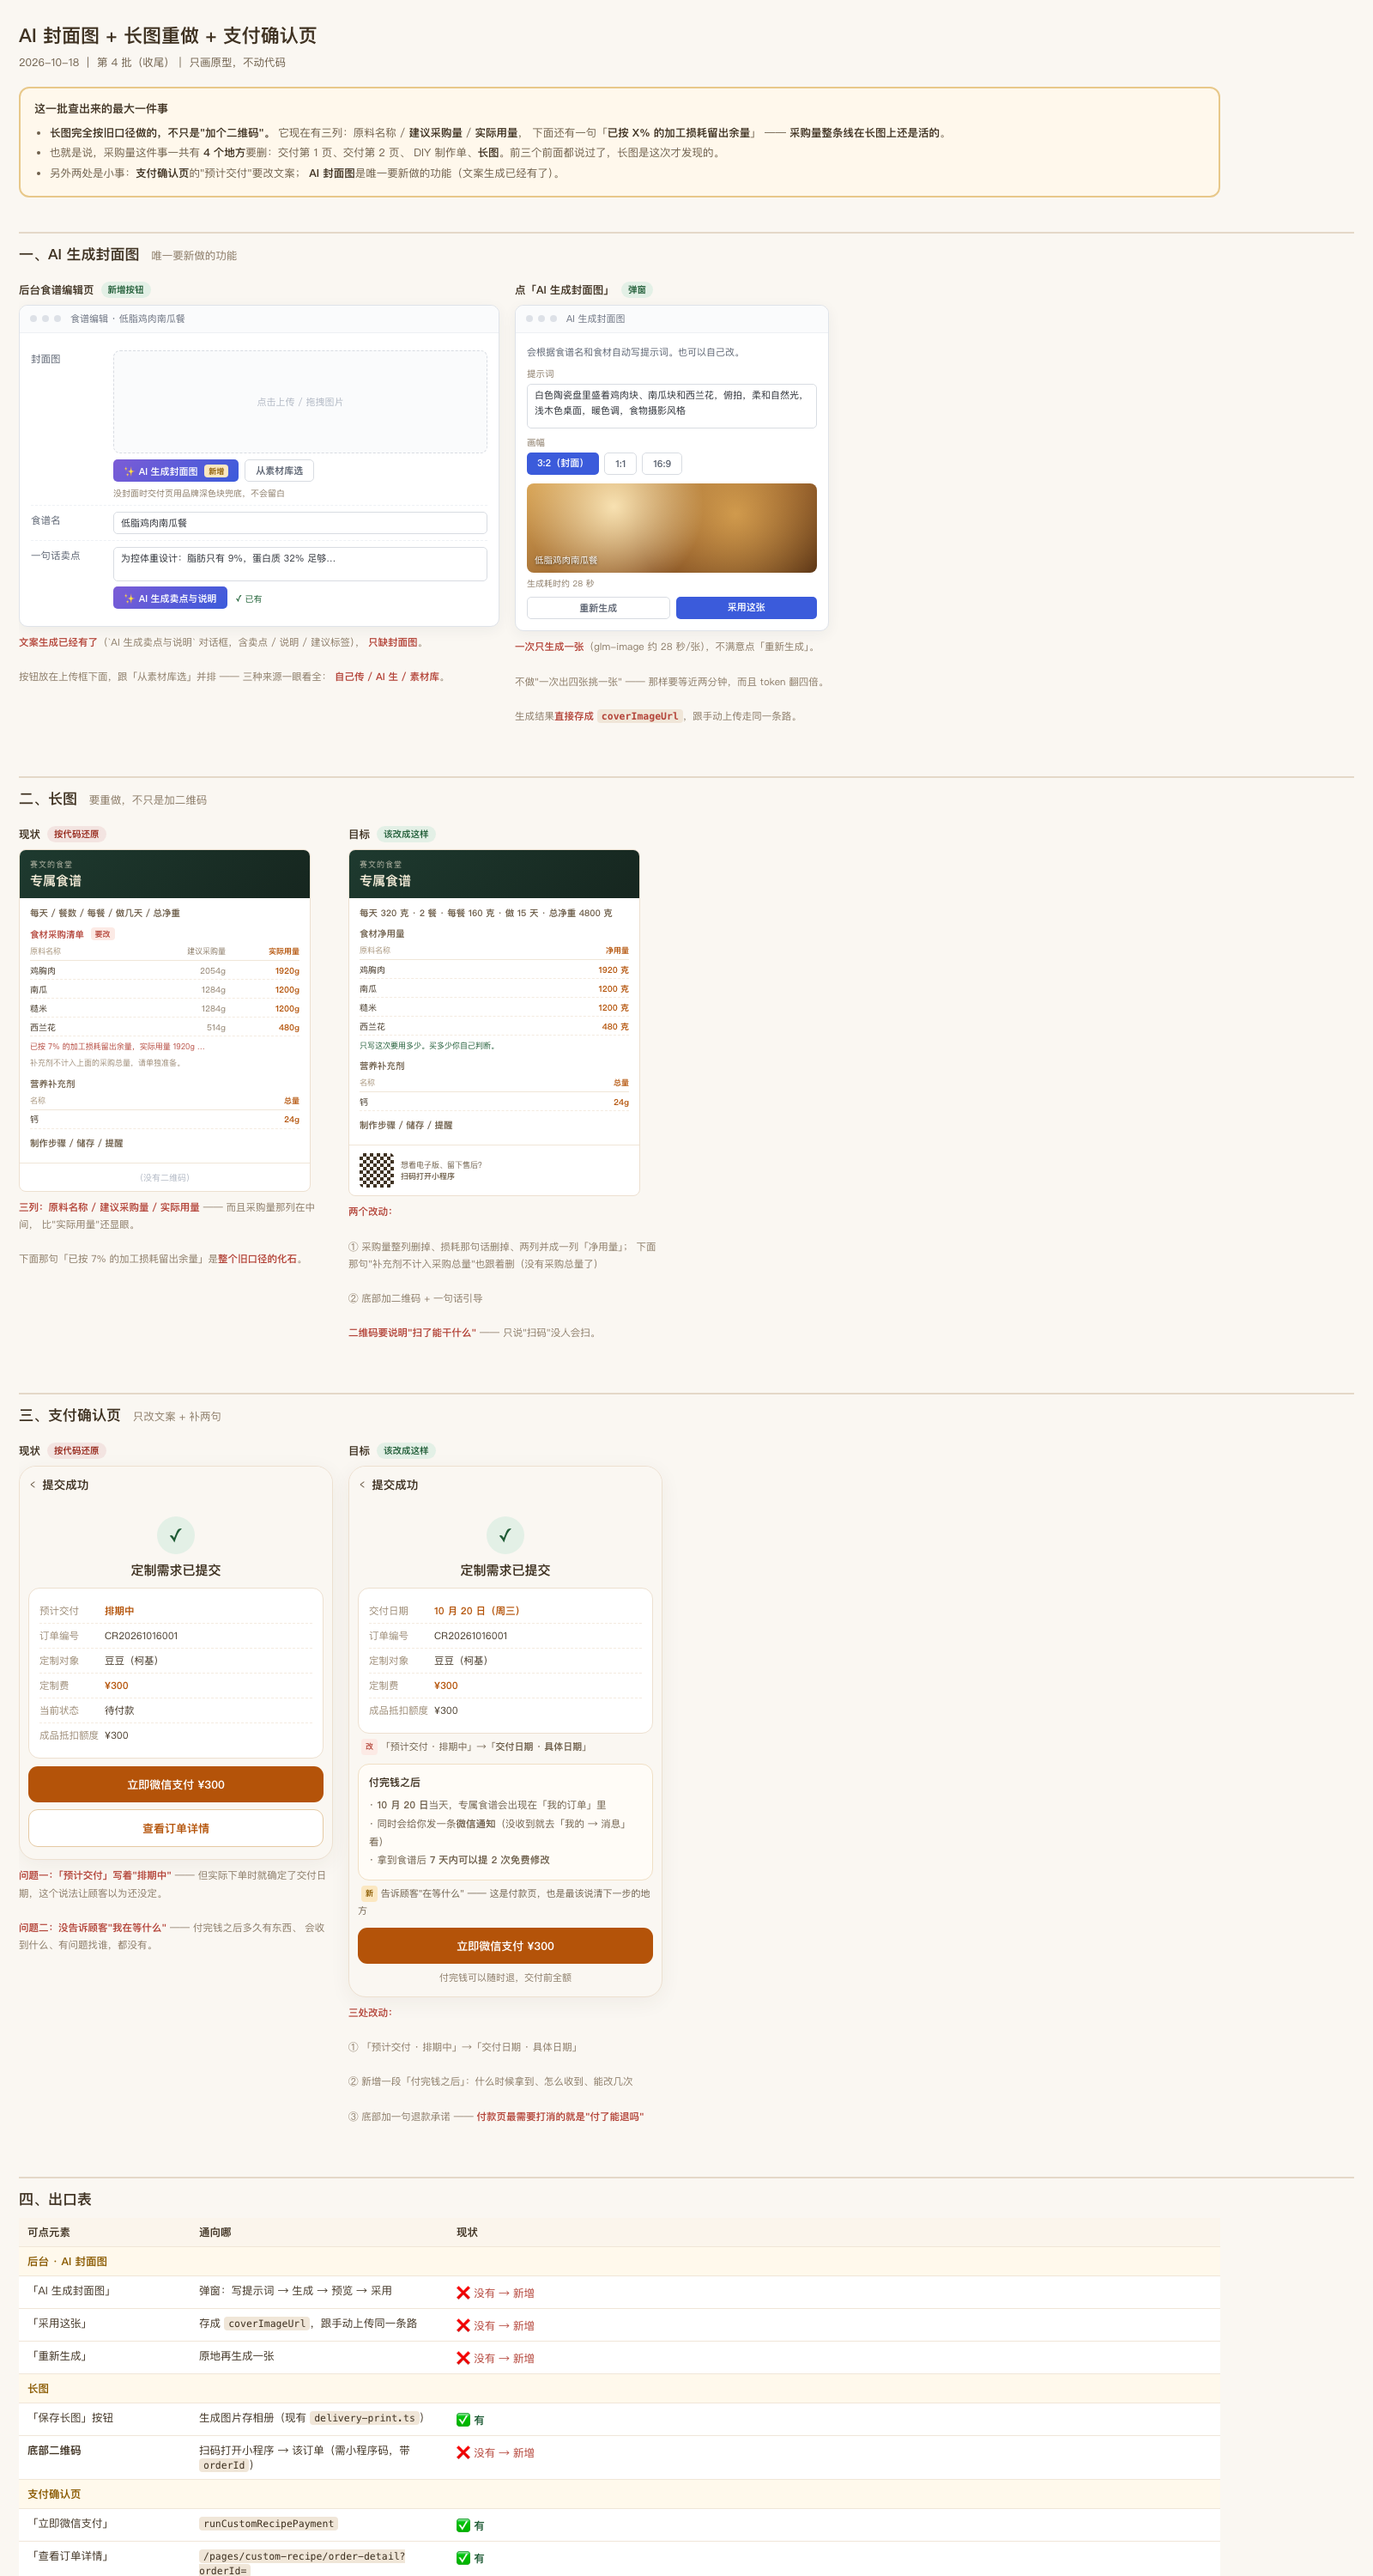
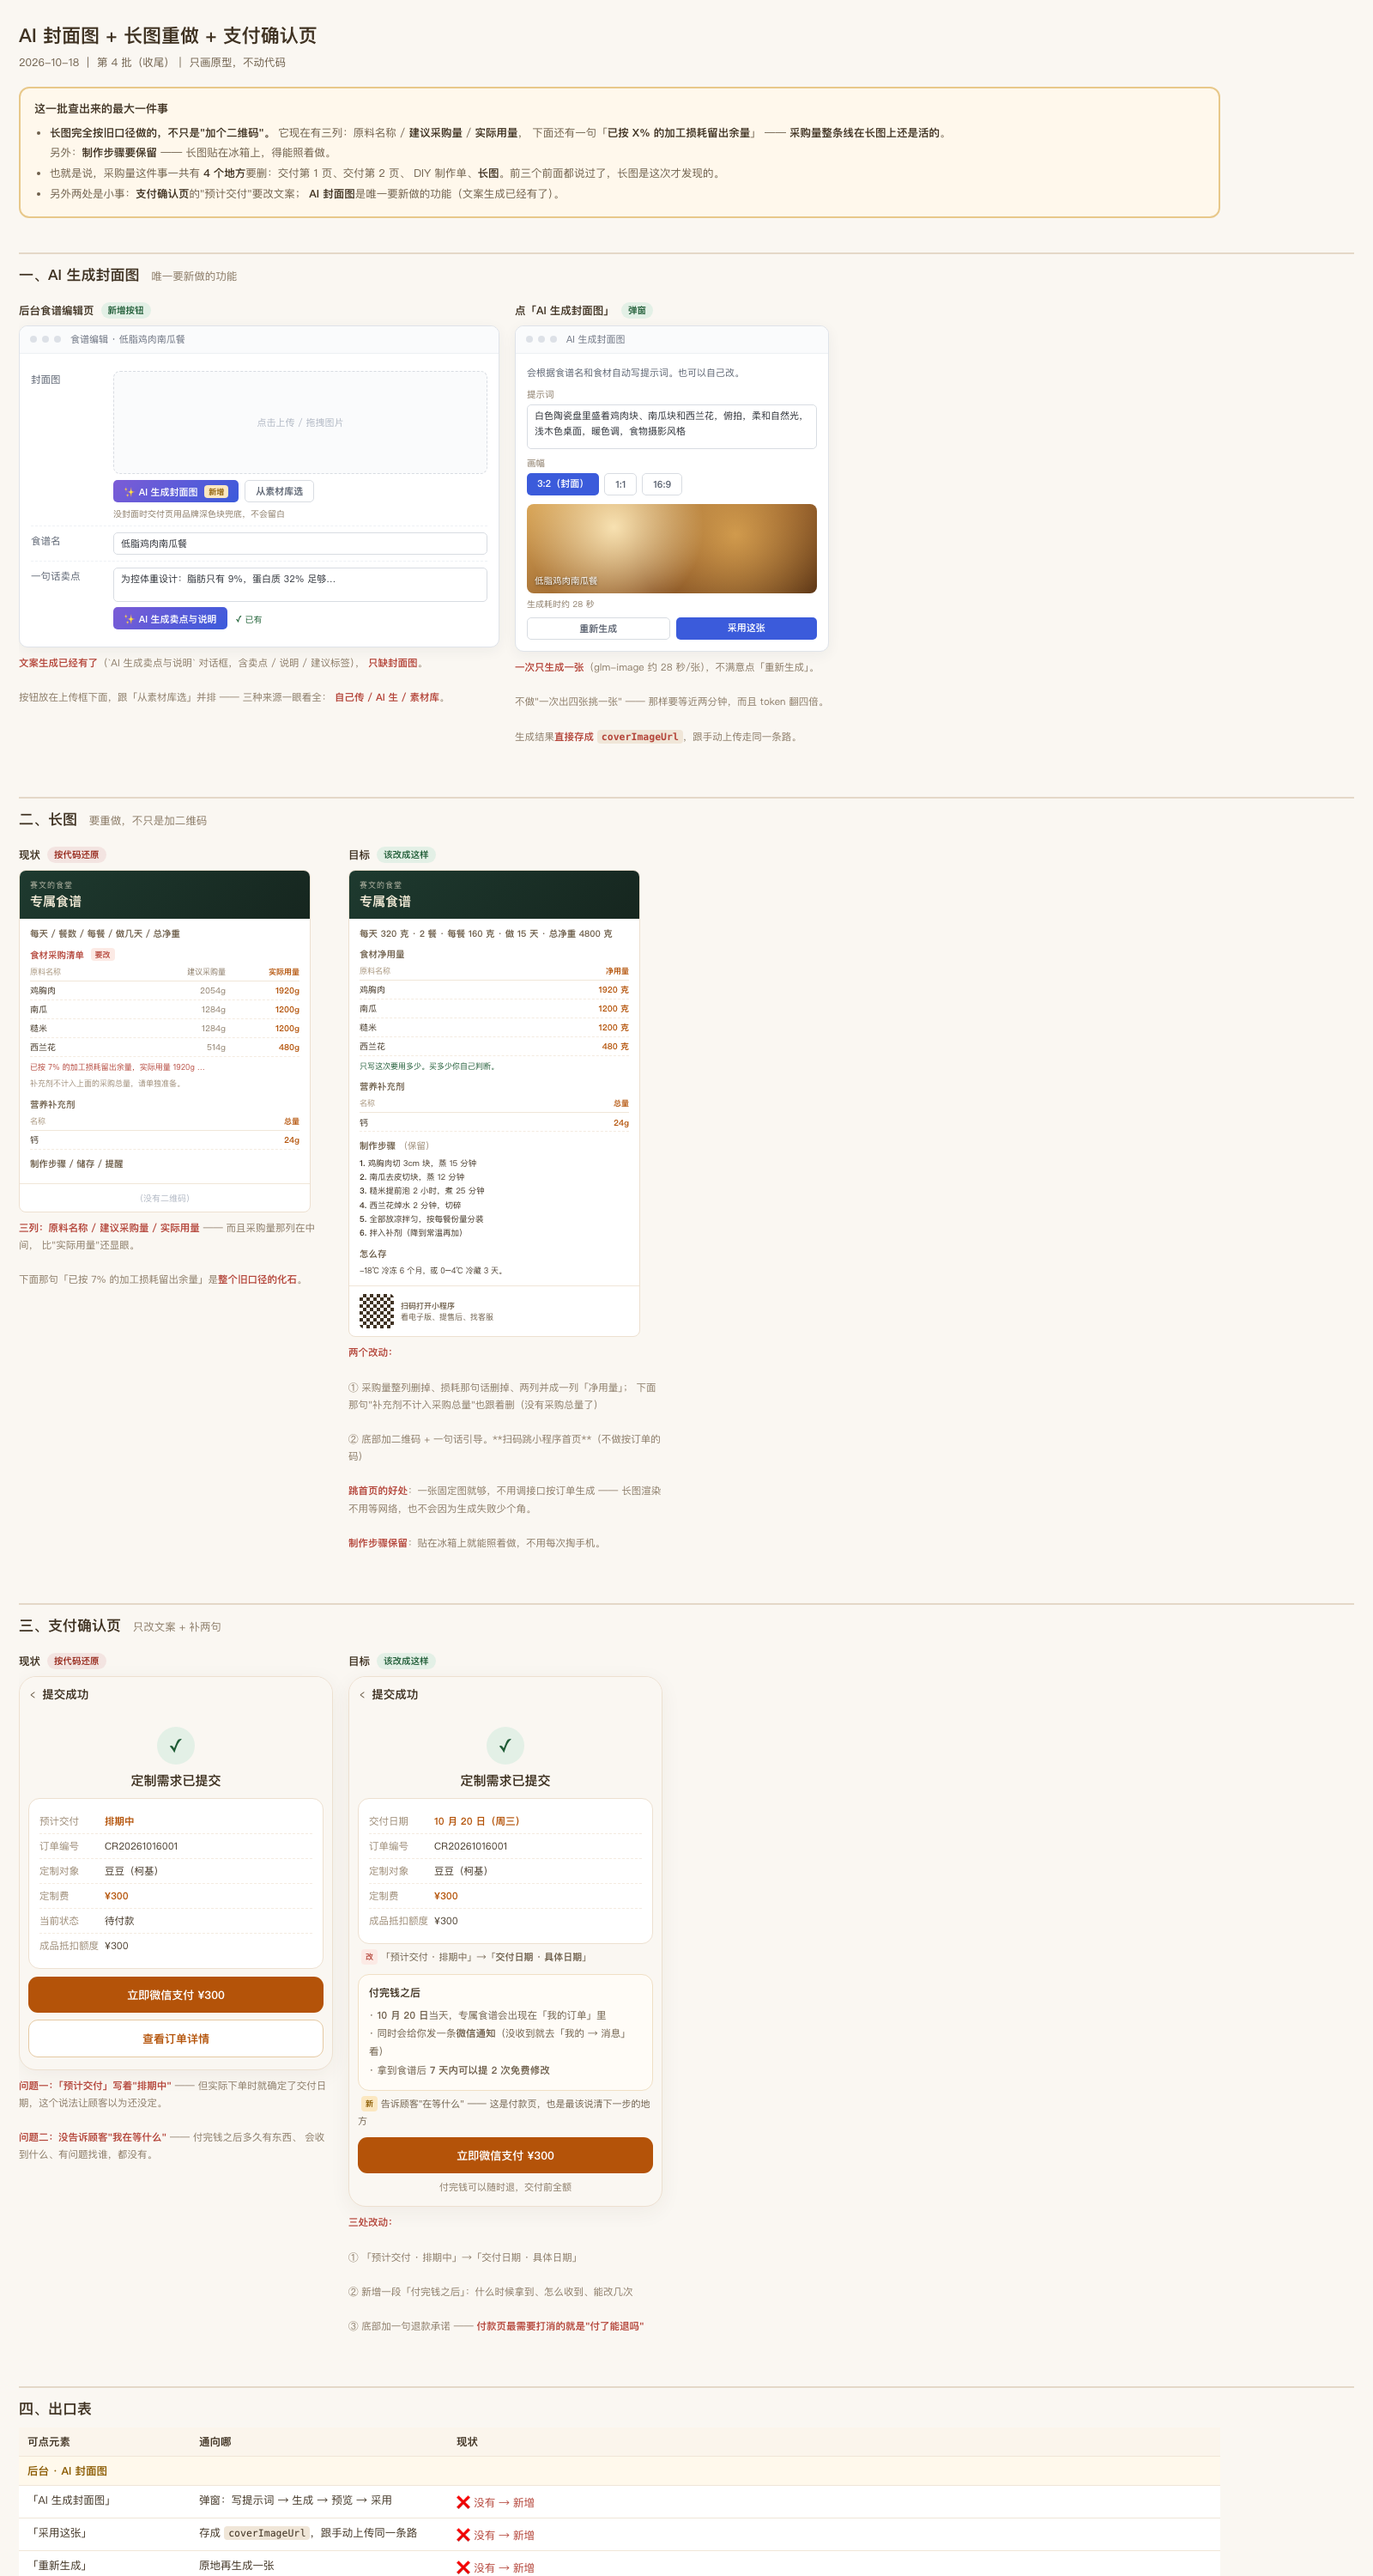
docs(requirements): 第 4 批定稿 —— 四批 20 项全部走完
老板两条决定：
① 长图二维码扫了**跳小程序首页**
② 长图**保留制作步骤**

## 一个意外的发现

查了需求文档 2.4.6，它**本来就写着**"扫码落地 = 小程序首页"和"内容含 SOP" ——
老板这两条决定**跟文档一致**，是**我画原型时画偏了**（原型里写成了按订单生成 + 建议不保留步骤）。

改成跟文档一致，并在文档里补了"现状问题"。

## 同步了三处

**2.4.6 长图** —— 补现状：`delivery-print.ts` 现在有三列
（原料名称 / 建议采购量 / 实际用量）+ 损耗说明 + "补充剂不计入采购总量"。
所以长图不是"加个二维码"，要整体重做。
记下：**采购量一共 4 个地方要删**（交付第 1 页、交付第 2 页、DIY 制作单、长图）。

**2.4.7 封面图生成** —— 新增：位置、三种来源、弹窗流程、glm-image 28 秒、
**一次只生成一张**（不做四张挑选，否则等近两分钟、token 翻四倍）、存 coverImageUrl。

**2.2.1 支付确认页**（新增章节）—— 特别标注"文件名是 success.vue，容易被当成提交成功页忽略"。
规则：日期文案必须是「交付日期·具体日期」不能是「预计交付·排期中」；
必须显示「付完钱之后」三条 + 退款承诺。

## 自检

按流程搜本批关键词，全部命中：
封面图生成 2 / 28 秒 2 / 净用量 11 / 小程序首页 1 / 付完钱之后 2 / 排期中 1 / 制作步骤 2

## 四批全部定稿

第 1 批 3 项、第 2 批 4 项、第 3 批 2 项、第 4 批 3 项 —— 共 12 项原型定稿，
加上 8 项代码改动项（卖点 200 字、删采购量、快照补传等），20 项全部走完。

Changed region(s): [[0.0, 0.062, 0.5938, 1.0], [0.0, 0.31, 0.2188, 0.496], [0.0312, 0.558, 0.0625, 0.589]]

diff --git a/docs/prototypes/2026-10-18-ai-cover-and-print.html b/docs/prototypes/2026-10-18-ai-cover-and-print.html
@@ -119,7 +119,8 @@
     <li><b>长图完全按旧口径做的，不只是"加个二维码"。</b>
       它现在有三列：原料名称 / <b>建议采购量</b> / <b>实际用量</b>，
       下面还有一句「<b>已按 X% 的加工损耗留出余量</b>」 ——
-      <b>采购量整条线在长图上还是活的</b>。</li>
+      <b>采购量整条线在长图上还是活的</b>。<br />
+      另外：<b>制作步骤要保留</b> —— 长图贴在冰箱上，得能照着做。</li>
     <li>也就是说，采购量这件事一共有 <b>4 个地方</b>要删：交付第 1 页、交付第 2 页、
       DIY 制作单、<b>长图</b>。前三个前面都说过了，长图是这次才发现的。</li>
     <li>另外两处是小事：<b>支付确认页</b>的"预计交付"要改文案；
@@ -304,14 +305,27 @@
         <div class="lihead"><span class="lirow__n">名称</span><span class="lirow__v">总量</span></div>
         <div class="lirow"><span class="lirow__n">钙</span><span class="lirow__v">24g</span></div>
 
-        <div class="li__h">制作步骤 / 储存 / 提醒</div>
+        <div class="li__h">制作步骤 <span style="font-weight:400;color:#9C8B76">（保留）</span></div>
+        <div style="font-size:9.5px;line-height:1.7;color:#3F3222">
+          <b>1.</b> 鸡胸肉切 3cm 块，蒸 15 分钟<br />
+          <b>2.</b> 南瓜去皮切块，蒸 12 分钟<br />
+          <b>3.</b> 糙米提前泡 2 小时，煮 25 分钟<br />
+          <b>4.</b> 西兰花焯水 2 分钟，切碎<br />
+          <b>5.</b> 全部放凉拌匀，按每餐份量分装<br />
+          <b>6.</b> 拌入补剂（降到常温再加）
+        </div>
+
+        <div class="li__h">怎么存</div>
+        <div class="li__note" style="color:#3F3222">
+          -18℃ 冷冻 6 个月，或 0–4℃ 冷藏 3 天。
+        </div>
 
       </div>
       <div class="li__ft">
         <div class="qr"></div>
         <div class="li__ftt">
-          想看电子版、留下售后？<br />
-          <b>扫码打开小程序</b>
+          <b>扫码打开小程序</b><br />
+          看电子版、提售后、找客服
         </div>
       </div>
     </div>
@@ -321,9 +335,12 @@
       ① 采购量整列删掉、损耗那句话删掉、两列并成一列「净用量」；
       下面那句"补充剂不计入采购总量"也跟着删（没有采购总量了）
       <br /><br />
-      ② 底部加二维码 + 一句话引导
+      ② 底部加二维码 + 一句话引导。**扫码跳小程序首页**（不做按订单的码）
       <br /><br />
-      <b>二维码要说明"扫了能干什么"</b> —— 只说"扫码"没人会扫。
+      <b>跳首页的好处</b>：一张固定图就够，不用调接口按订单生成 ——
+      长图渲染不用等网络，也不会因为生成失败少个角。
+      <br /><br />
+      <b>制作步骤保留</b>：贴在冰箱上就能照着做，不用每次掏手机。
     </div>
   </div>
 
@@ -435,7 +452,7 @@
 
   <tr><td colspan="3" style="background:#FFF9EC;font-weight:700;color:#8a5a00">长图</td></tr>
   <tr><td>「保存长图」按钮</td><td>生成图片存相册（现有 <code>delivery-print.ts</code>）</td><td class="new">✅ 有</td></tr>
-  <tr><td><b>底部二维码</b></td><td>扫码打开小程序 → 该订单（需小程序码，带 <code>orderId</code>）</td><td class="del2">❌ 没有 → 新增</td></tr>
+  <tr><td><b>底部二维码</b></td><td>扫码打开<b>小程序首页</b>（通用小程序码，不带参数）</td><td class="del2">❌ 没有 → 新增</td></tr>
 
   <tr><td colspan="3" style="background:#FFF9EC;font-weight:700;color:#8a5a00">支付确认页</td></tr>
   <tr><td>「立即微信支付」</td><td><code>runCustomRecipePayment</code></td><td class="new">✅ 有</td></tr>
@@ -460,7 +477,8 @@
     <td><b>长图完全按旧口径做的</b> —— 两列并成一列「净用量」</td></tr>
   <tr><td class="new" style="font-weight:700">加</td>
     <td>底部二维码 + 一句引导</td>
-    <td>要说明"扫了能干什么"，只说"扫码"没人会扫</td></tr>
+    <td><b>扫码跳小程序首页</b> —— 一张固定图就够，不用按订单生成。
+      文案要说清"扫了能干什么"</td></tr>
 
   <tr><td rowspan="3"><b>支付确认页</b></td>
     <td class="new" style="font-weight:700">改</td>
@@ -474,16 +492,12 @@
     <td>付款页最需要打消的就是"付了能退吗"</td></tr>
 </table>
 
-<div class="banner" style="margin-top:18px;border-color:#E8CFC8;background:#FFF9F8">
-  <div class="banner__t">要你定的两件事</div>
-  <ul>
-    <li><b>① 长图的二维码，扫了之后跳到哪？</b>
-      <br />我建议跳到<b>这张订单的交付第 1 页</b>（带 <code>orderId</code> 的小程序码）——
-      顾客扫码就是"想看电子版"或"想提售后"，都在这张单上。</li>
-    <li><b>② 长图还需要保留"制作步骤"吗？</b>
-      <br />现在有。但长图是<b>贴在冰箱上</b>看的，步骤字太小。
-      我建议长图<b>只留用量 + 补剂 + 储存</b>，步骤让顾客回小程序看 ——
-      二维码就是干这个的。</li>
+<div class="banner" style="margin-top:18px;border-color:#CFE3D5;background:#F7FBF8">
+  <div class="banner__t" style="color:#1e5b35">两条已定（老板 2026-10-18）</div>
+  <ul style="color:#3F3222">
+    <li><b>① 二维码扫了跳小程序首页</b> —— 不做按订单的码。
+      好处是<b>一张固定图就够</b>，不用调接口生成，长图渲染不用等网络。</li>
+    <li><b>② 制作步骤保留</b> —— 长图贴在冰箱上，得能照着做，不用每次掏手机。</li>
   </ul>
 </div>
 

diff --git a/docs/plans/2026-10-18-custom-recipe-page-inventory.md b/docs/plans/2026-10-18-custom-recipe-page-inventory.md
@@ -55,6 +55,15 @@
 
 ## 二、顾客端：还没确认的 7 项
 
+> **✅ 第 4 批（AI 封面图 / 长图 / 支付确认页）已于 2026-10-18 定稿** ——
+> 原型见 `docs/prototypes/2026-10-18-ai-cover-and-print.html`（含**出口表**）。
+> 需求文档同步：新增 **2.2.1 支付确认页**、**2.4.6 长图现状与重做**、**2.4.7 封面图生成**。
+>
+> 定稿时查出：**长图完全按旧口径做的**（有「建议采购量」+「实际用量」+ 损耗说明），
+> 所以采购量一共有 **4 个地方**要删，长图是最后发现的那个。
+>
+> 老板两条决定：**二维码扫了跳小程序首页**（一张固定图即可）、**制作步骤保留**。
+>
 > **✅ 第 3 批（三单合一 / 消息中心）已于 2026-10-18 定稿** ——
 > 原型见 `docs/prototypes/2026-10-18-merged-orders-and-messages.html`（含**出口表**）。
 > 需求文档同步：新增 **2.9.1 消息中心**、**2.10 三单合一具体设计**。
@@ -86,7 +95,7 @@
 | 3 | **定制订单列表** | ✅ 有（`custom-recipe/orders.vue`，20KB） | 状态标签改了（售后中），列表要跟着变 | 🟡 中 |
 | ~~4~~ | ~~三单合一（订单列表合并）~~ | ✅ **已定稿**（2026-10-18） | 定制并进来 + 筛选改按类型 + 色条角标 | ✅ |
 | ~~5~~ | ~~消息中心~~ | ✅ **已定稿**（2026-10-18） | 四档筛选 + 未读 + 两个入口（我的 / 首页铃铛） | ✅ |
-| 6 | **支付确认页**（文件名是 `success.vue`） | ✅ 有（18KB） | ⚠ **我之前叫它"提交成功页"叫错了** —— 它上面有「**立即微信支付 ¥300**」按钮，**它其实就是支付确认页**（下单后 `redirectTo` 到这里）。只需核文案（"预计交付"→"交付日期"） | 🟡 中 |
+| ~~6~~ | ~~支付确认页~~ | ✅ **已定稿**（2026-10-18） | 改日期文案 + 加「付完钱之后」+ 退款承诺 | ✅ |
 | 7 | **客服（企业微信）入口** | ✅ 有 | 定制页入口（不带订单号）、订单页入口（带订单号）—— 已实现，只需**确认文案与位置** | 🟢 低 |
 
 ---
@@ -111,7 +120,7 @@
 | ~~12~~ | ~~配置页~~ | ✅ **已定稿**（2026-10-18） | 6 删 5 加 + AI 拆两块（文案 DeepSeek / 生图 智谱） | ✅ |
 | ~~13~~ | ~~排期日历~~ | ✅ **已定稿**（2026-10-18） | 删「接单」维度，每天显示「交 X / 上限 Y」 | ✅ |
 | 14 | **售后列表** | ✅ 有（`CustomRecipes/AftersaleList.vue`） | 类型从 4 种变 1 种；要加 48 小时未处理标红 | 🟡 中 |
-| 15 | **AI 生成按钮** | ⚠ 部分（文案生成已有、**封面图没有**） | 老板定过：设计器 + 编辑页都加；封面图用 `glm-image` | 🟡 中 |
+| ~~15~~ | ~~AI 生成按钮~~ | ✅ **已定稿**（2026-10-18） | 文案已有，只加封面图；一次一张、28 秒、存 `coverImageUrl` | ✅ |
 | 16 | 食谱设计器（`RecipeDesigner/Editor.vue`） | ✅ 有 | 跟 AI 按钮一起看 | 🟢 低 |
 
 ---
@@ -120,7 +129,7 @@
 
 | # | 是什么 | 状态 | 优先级 |
 |---|---|---|---|
-| 17 | **长图 + 小程序二维码** | 长图有（`delivery-print.ts`），二维码**没有** | 🟢 低 |
+| ~~17~~ | ~~长图 + 小程序二维码~~ | ✅ **已定稿**（2026-10-18） | **长图要整体重做**（采购量还在）+ 加通用小程序码 | ✅ |
 | 18 | **交付快照补传 4 处字段**（dog / supplementTargets / macros / sellingPoint） | 字段都有，只是没传 —— 属于代码改动 | 🔴 高（但要等能改代码） |
 | 19 | **采购量整条线删除**（含 DIY 前端计算） | 属于代码改动 | 🔴 高 |
 | 20 | **卖点上限 40 → 200**（数据库 migration + 表单 + 页面两行折叠） | 属于代码改动 | 🟡 中 |
